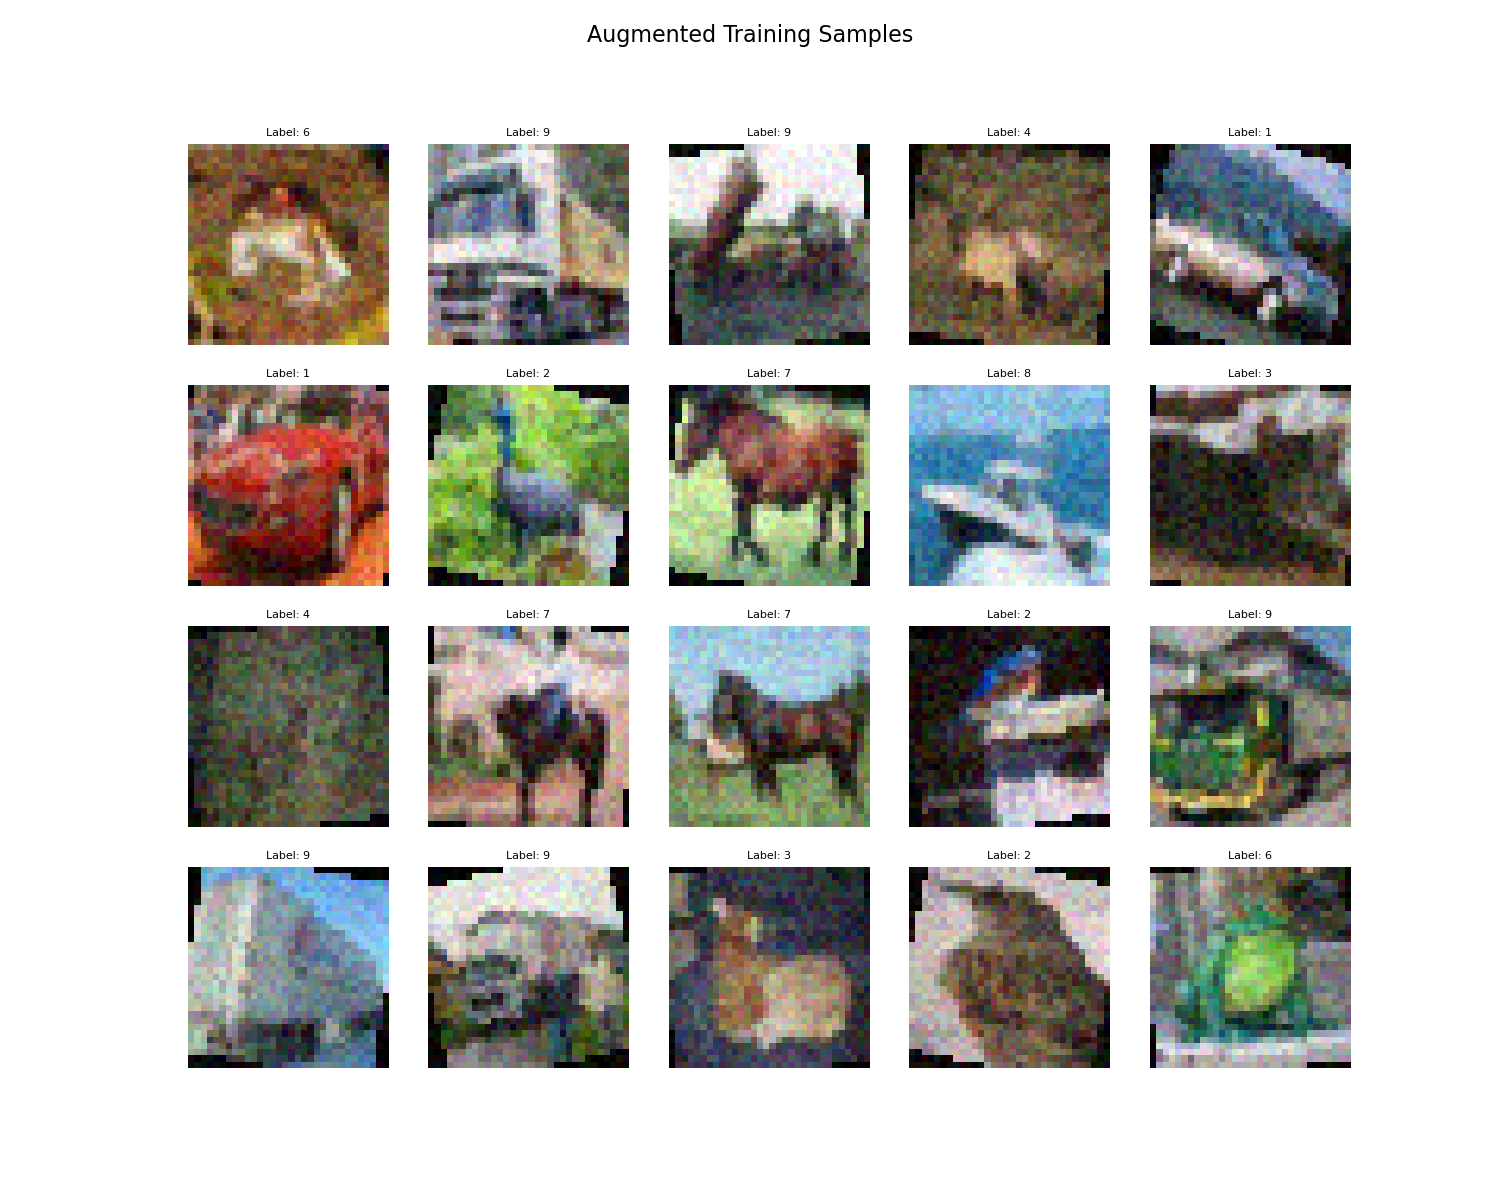
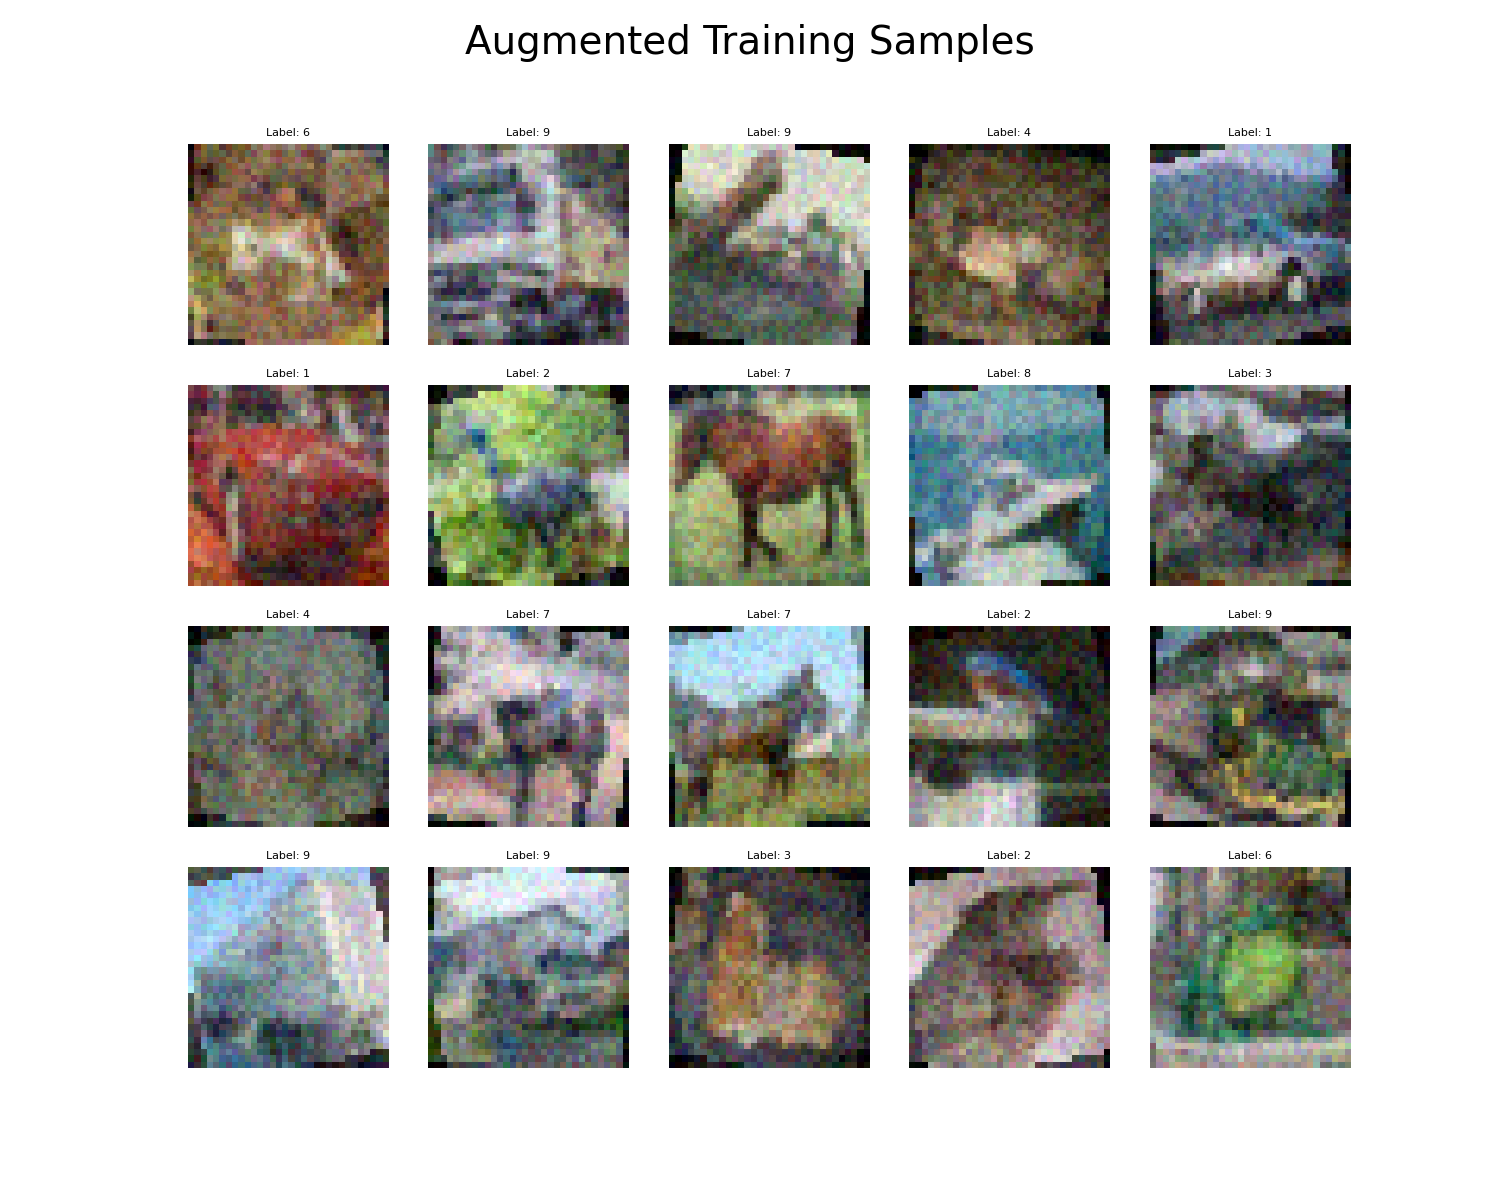
data preprocess done

diff --git a/LAB1/data_preprocess.py b/LAB1/data_preprocess.py
@@ -67,7 +67,8 @@ def augment_data(images, labels=None, use_regmixup=False, alpha=0.2, reg_factor=
     for img in images:
         pil_img = Image.fromarray((img * 255).astype(np.uint8))
         
-        if np.random.rand() > 0.5:  # Random horizontal flip
+        # Random horizontal flip
+        if np.random.rand() > 0.5:  
             pil_img = pil_img.transpose(Image.FLIP_LEFT_RIGHT)
         
         # Random rotation ±15 degrees
@@ -112,7 +113,7 @@ def visualize_samples(images, labels=None, title="Sample Images", save_dir="data
             ax.set_title(f"Label: {class_label}", fontsize=8)
 
     # Save the figure with the specified title
-    plt.suptitle(title, fontsize=16)
+    plt.suptitle(title, fontsize=28)
     save_path = os.path.join(save_dir, f"{title.replace(' ', '_')}.png")
     plt.savefig(save_path)
     plt.close()
